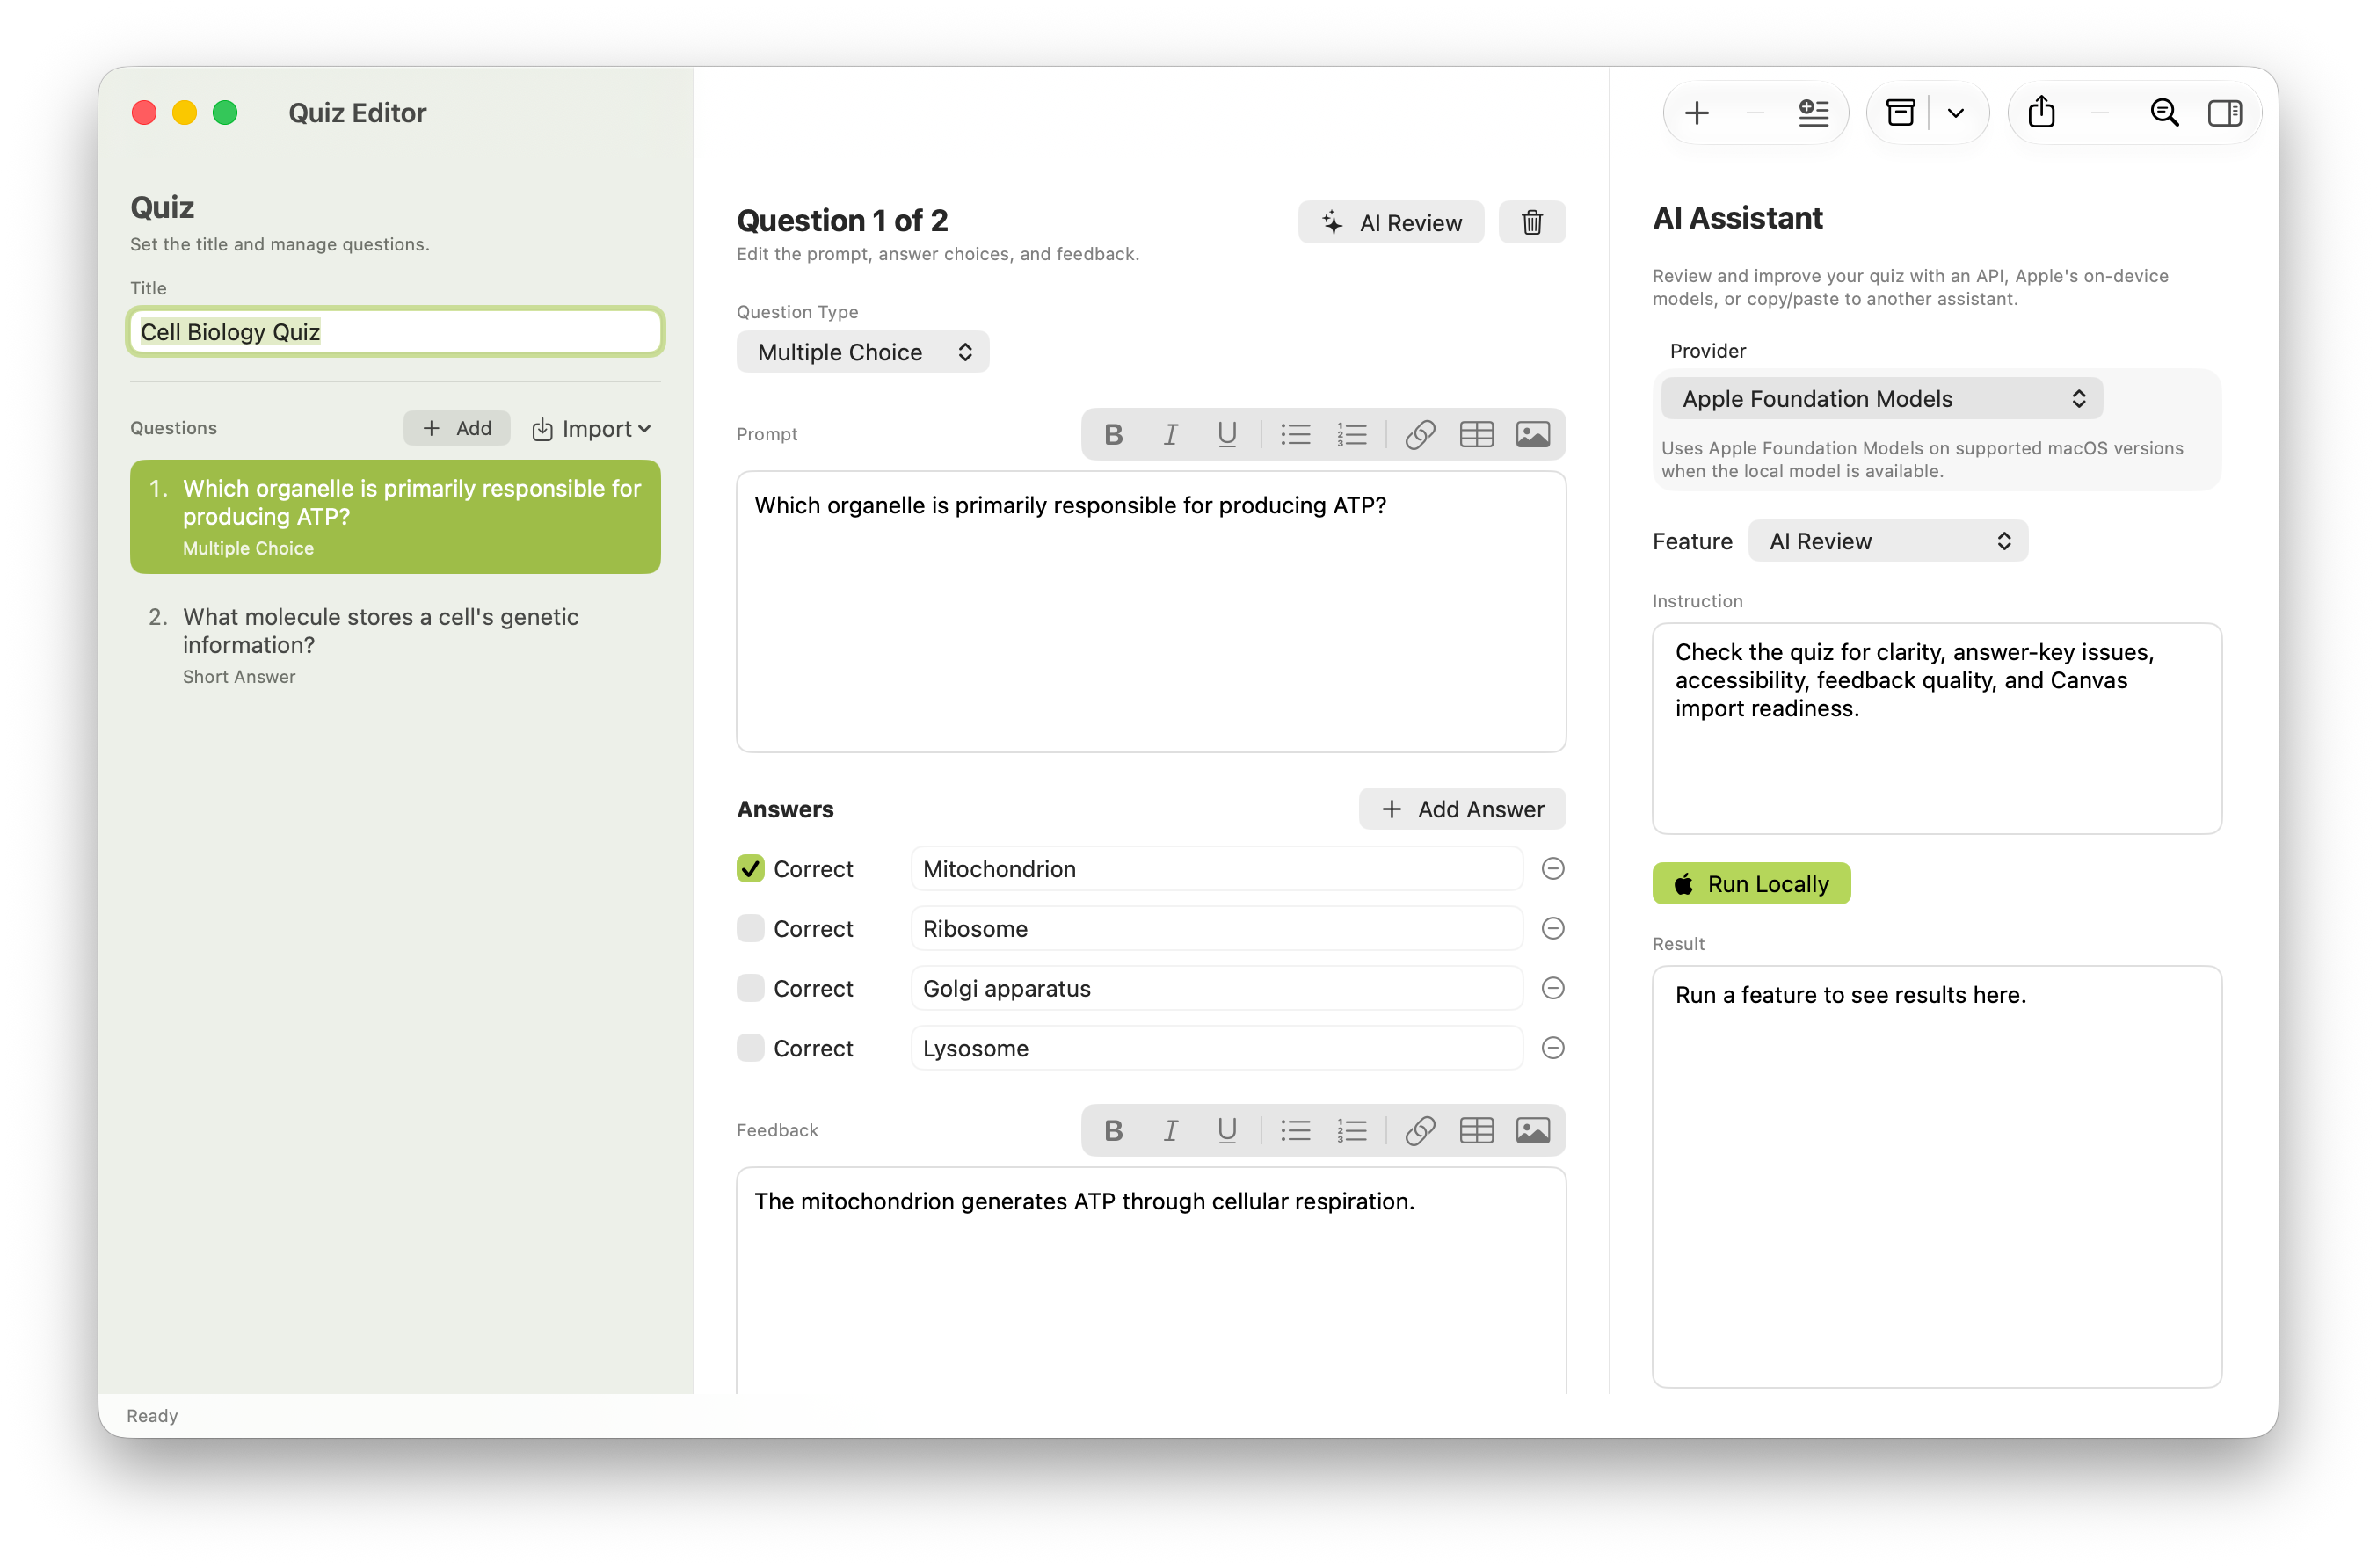
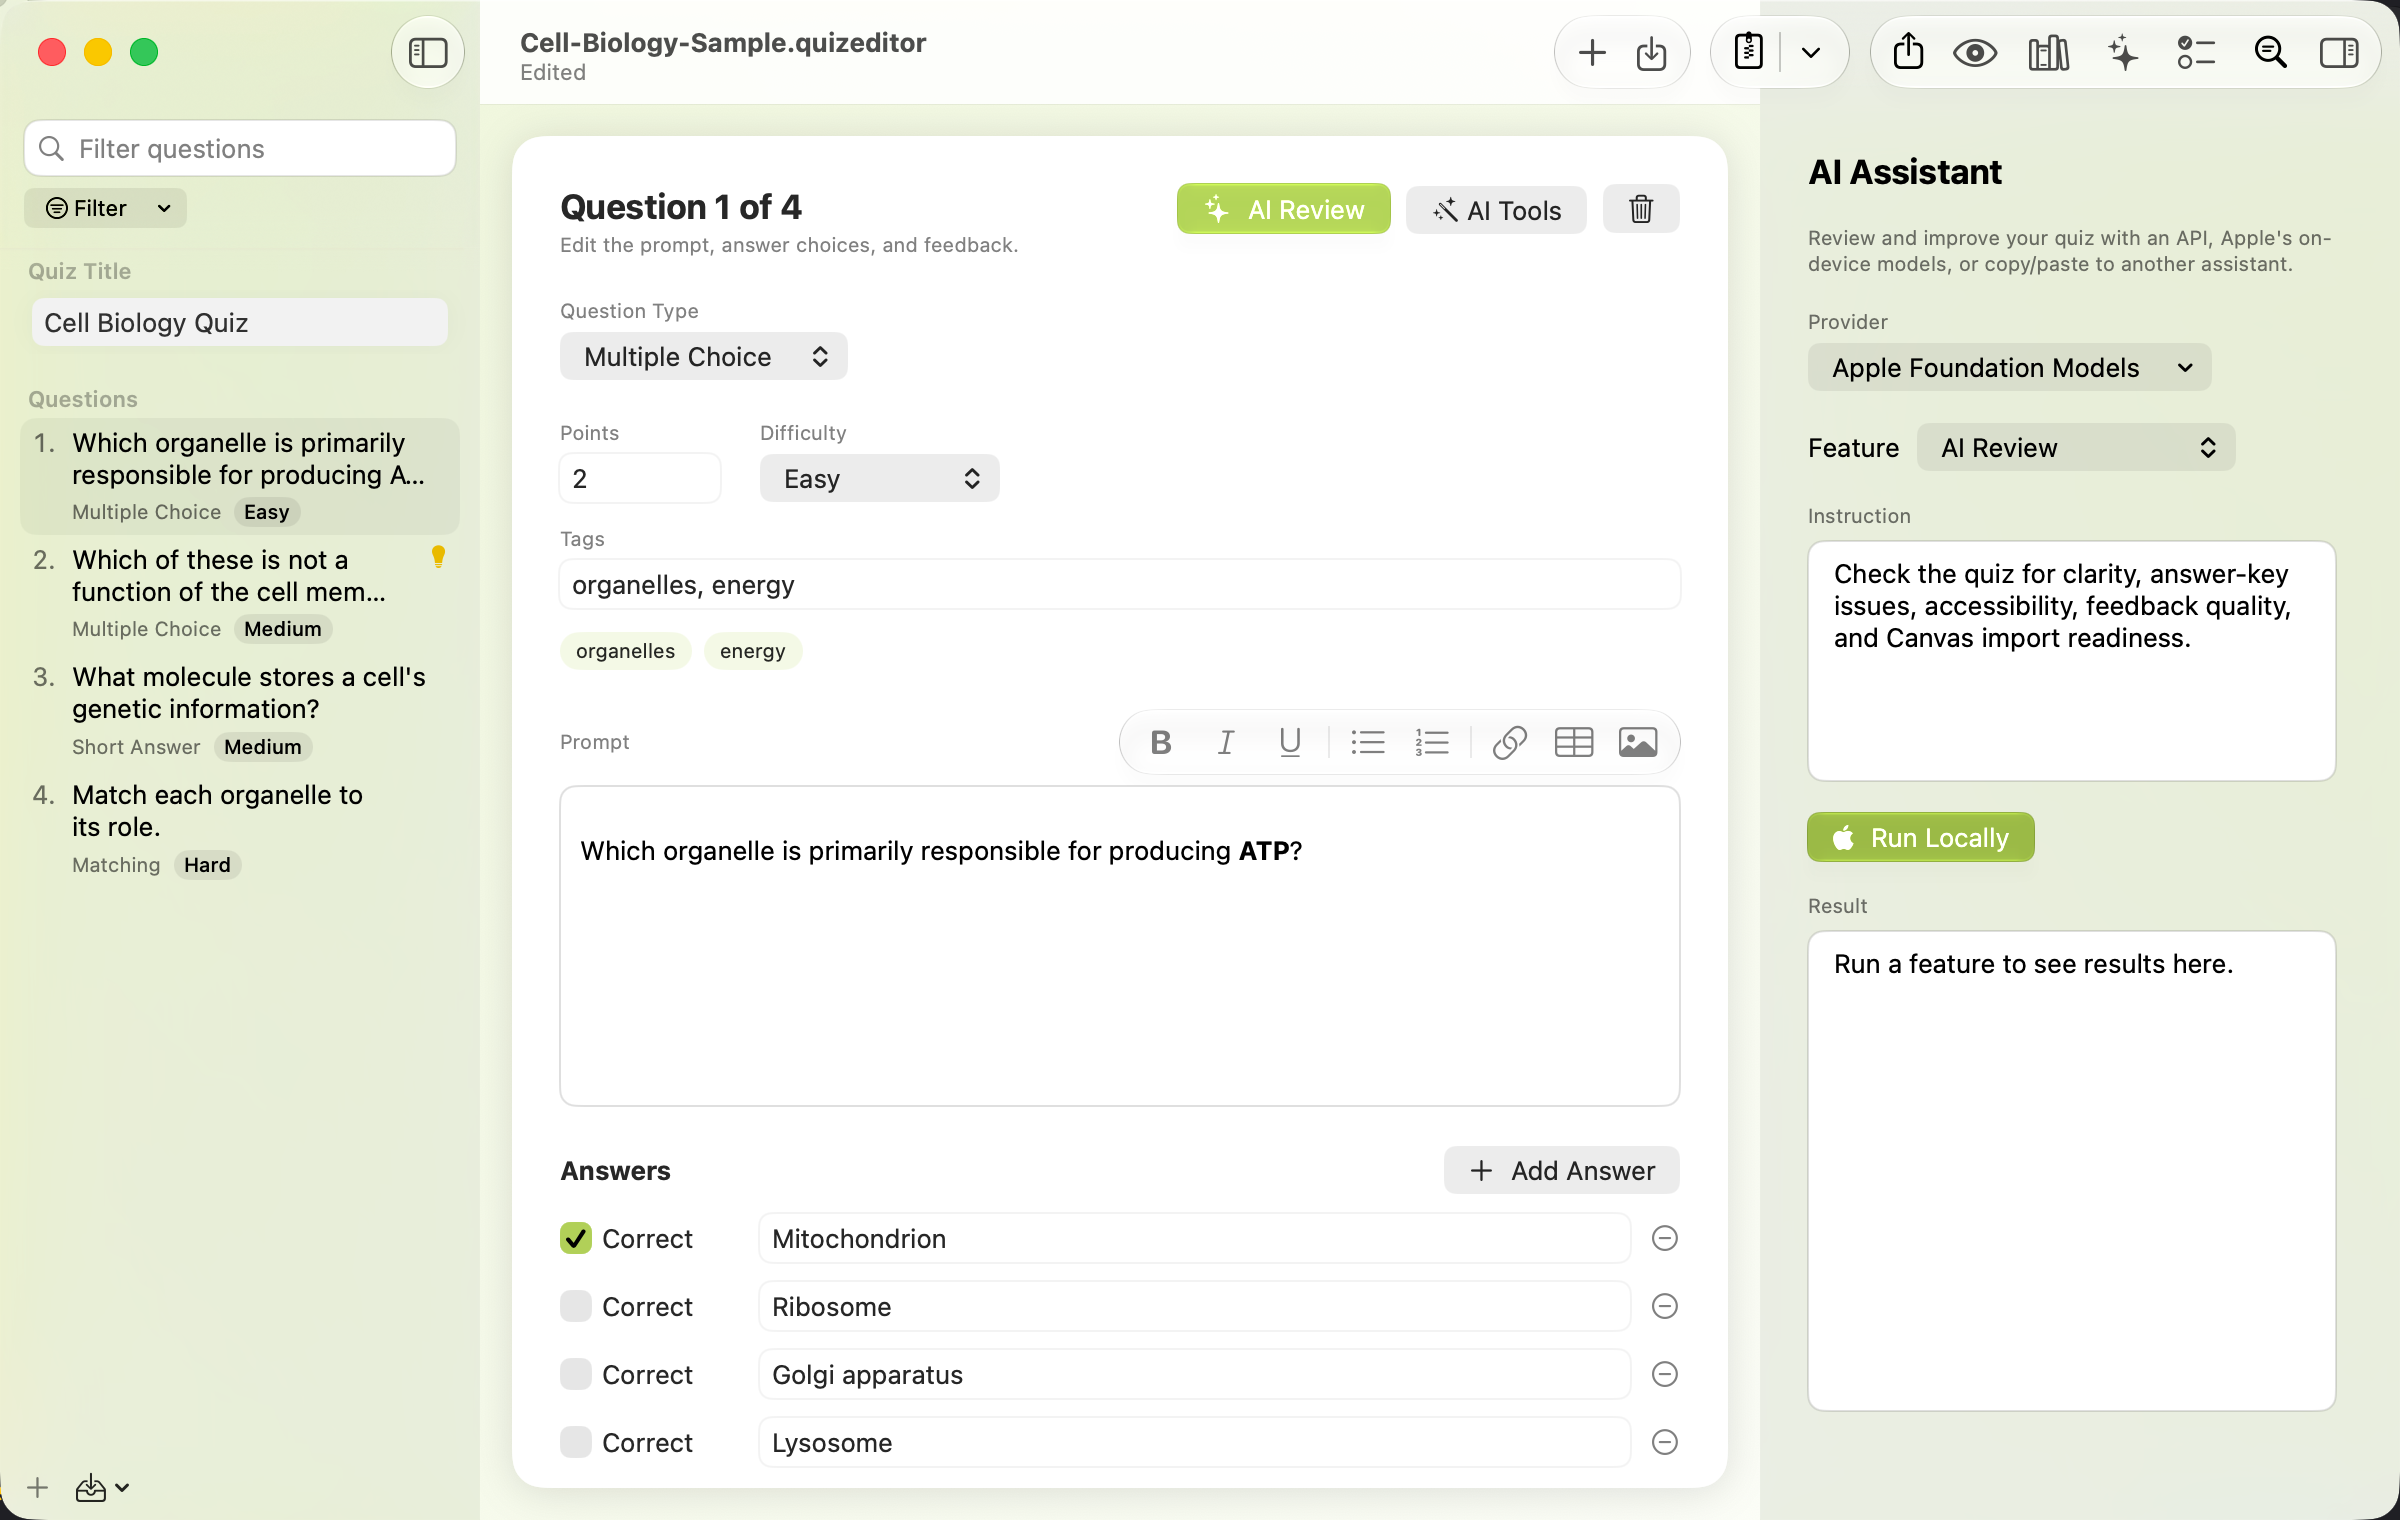
Update README and editor screenshot for the new features
Document metadata, sidebar search/filter, reorder/duplicate, quick-switch,
the offline linter, AI authoring, merge, the question bank, partial import,
and the paper exam export. Add a keyboard-shortcuts table. Refresh the editor
screenshot to show the metadata editor, search/filter, and AI Tools.

Claude-Session: https://claude.ai/code/session_01P5qY4sHyXw9u1R9iFfv7JY

diff --git a/README.md b/README.md
@@ -6,17 +6,21 @@ A native macOS app for authoring, reviewing, and round-tripping **Canvas QTI qui
 
 > Built entirely on Apple frameworks (SwiftUI, AppKit, WebKit). No third-party dependencies.
 
-![Quiz Editor main window — sidebar, question editor, and AI Assistant panel](docs/screenshots/editor.png)
+![Quiz Editor main window — searchable, filterable sidebar with difficulty badges; question editor showing points, difficulty, and tag metadata; and the AI Assistant panel](docs/screenshots/editor.png)
 
 ## Features
 
 - **Question editing** — multiple choice, multiple answer, true/false, fill-in-the-blank, short answer, essay, and matching.
 - **Rich text (WYSIWYG)** — bold, italics, underline, lists, links, tables, and embedded images for prompts and feedback. Formatting round-trips through QTI.
+- **Question metadata** — per-question **tags**, **difficulty** (easy/medium/hard), and **points**. Tags and difficulty persist in the document and ride along in Canvas QTI metadata.
+- **Organize a long quiz** — a live **sidebar search**, **filter by tag or difficulty**, **drag-to-reorder** (with accessible Move Up/Down commands), **duplicate**, and a **quick-switch palette** (⌘⇧O) to jump to any question.
+- **Offline quality linter** — instant, rule-based item-writing checks (no network): missing/duplicate correct answers, "all of the above," unemphasized negative stems, length-bias cues, empty/duplicate options, missing feedback, and a/an grammatical cues. Inline in the editor, a per-question badge in the sidebar, and a quiz-wide **Quality Check** summary.
 - **Accessible by design** — alt text is *required* on images before export; VoiceOver labels, Dynamic Type, full keyboard operation, and color that is never the sole signal.
-- **AI review** — per-question review against established item-writing guidelines (not just grammar), with a before/after diff and per-field "apply." Works with an OpenAI-compatible API, Apple Foundation Models, or copy/paste to another assistant.
-- **Document-based** — quizzes are native `.quizeditor` documents (JSON). Open with ⌘O or by double-clicking in Finder; New (⌘N), Save (⌘S), Save As, rename, and autosave/versions all work as expected.
-- **Import** — Canvas QTI `.zip` packages (handles both per-file and single-file inline layouts), with a *keep formatting* or *plain text* option for messy sources. Also imports simple marked plain text.
-- **Export** — Canvas Classic (QTI 1.2) and New Quizzes (QTI 2.1) packages as `.zip`, plus a formatted, printable **HTML document**.
+- **AI assistant** — per-question **review** against established item-writing guidelines (not just grammar), with a before/after diff and per-field "apply"; plus **authoring** — generate questions from a topic or learning objective (reviewed per-item before insertion), and generate **distractors** or **feedback** for the current question. Works with an OpenAI-compatible API, Apple Foundation Models, or copy/paste to another assistant.
+- **Document-based** — quizzes are native `.quizeditor` documents (JSON). Open with ⌘O or by double-clicking in Finder; New (⌘N), Save (⌘S), Save As, rename, and autosave/versions all work as expected. Structural edits (import, merge, reorder, duplicate, delete) are undoable.
+- **Import** — Canvas QTI `.zip` packages (handles both per-file and single-file inline layouts) and simple marked plain text, with a *keep formatting* or *plain text* option for messy sources. A **question picker** (search, select all/none, preview) lets you import only the questions you want.
+- **Merge & question bank** — **Merge from File…** appends questions from other `.quizeditor` or QTI `.zip` files, flagging duplicates by prompt + type. The **Question Bank** browser indexes every `.quizeditor` file in a folder (read-only) so you can search across all of them and add what you need to the open quiz.
+- **Export** — Canvas Classic (QTI 1.2) and New Quizzes (QTI 2.1) packages as `.zip`, a formatted **HTML document**, and a print-ready **paper exam** for testing centers (header fields, per-question points, type-appropriate answer affordances, page-break-safe layout, and a separate instructor answer key).
 - **Preview** — a modal that renders a formatted version of the current question or the full quiz, with an optional answer key.
 
 ### AI review with a before/after diff
@@ -26,6 +30,22 @@ A native macOS app for authoring, reviewing, and round-tripping **Canvas QTI qui
 ### Import marked plain text
 
 ![Import Marked Text dialog with a correct-answer marker and sample text](docs/screenshots/import.png)
+
+## Keyboard shortcuts
+
+Most actions live in the **Question** menu and have tooltips in the UI.
+
+| Shortcut | Action |
+|---|---|
+| ⇧⌘N | Add question |
+| ⌥⌘↑ / ⌥⌘↓ | Previous / next question |
+| Home / End | First / last question |
+| ⌘⇧O | Go to question… (quick-switch) |
+| ⌃⌘↑ / ⌃⌘↓ | Move question up / down |
+| ⌘D | Duplicate question |
+| ⇧⌘I | Import marked text |
+| ⇧⌘P | Preview |
+| ⌥⌘A | Toggle the AI Assistant panel |
 
 ## Requirements
 
@@ -56,7 +76,7 @@ swift test
 
 ## AI configuration
 
-The AI Assistant panel supports three providers:
+The AI review, authoring, distractor, and feedback features support three providers:
 
 - **OpenAI-compatible API** — supply an endpoint, model, and API key (stored locally via `@AppStorage`).
 - **Apple Foundation Models** — on-device, on supported macOS versions with Apple Intelligence enabled.